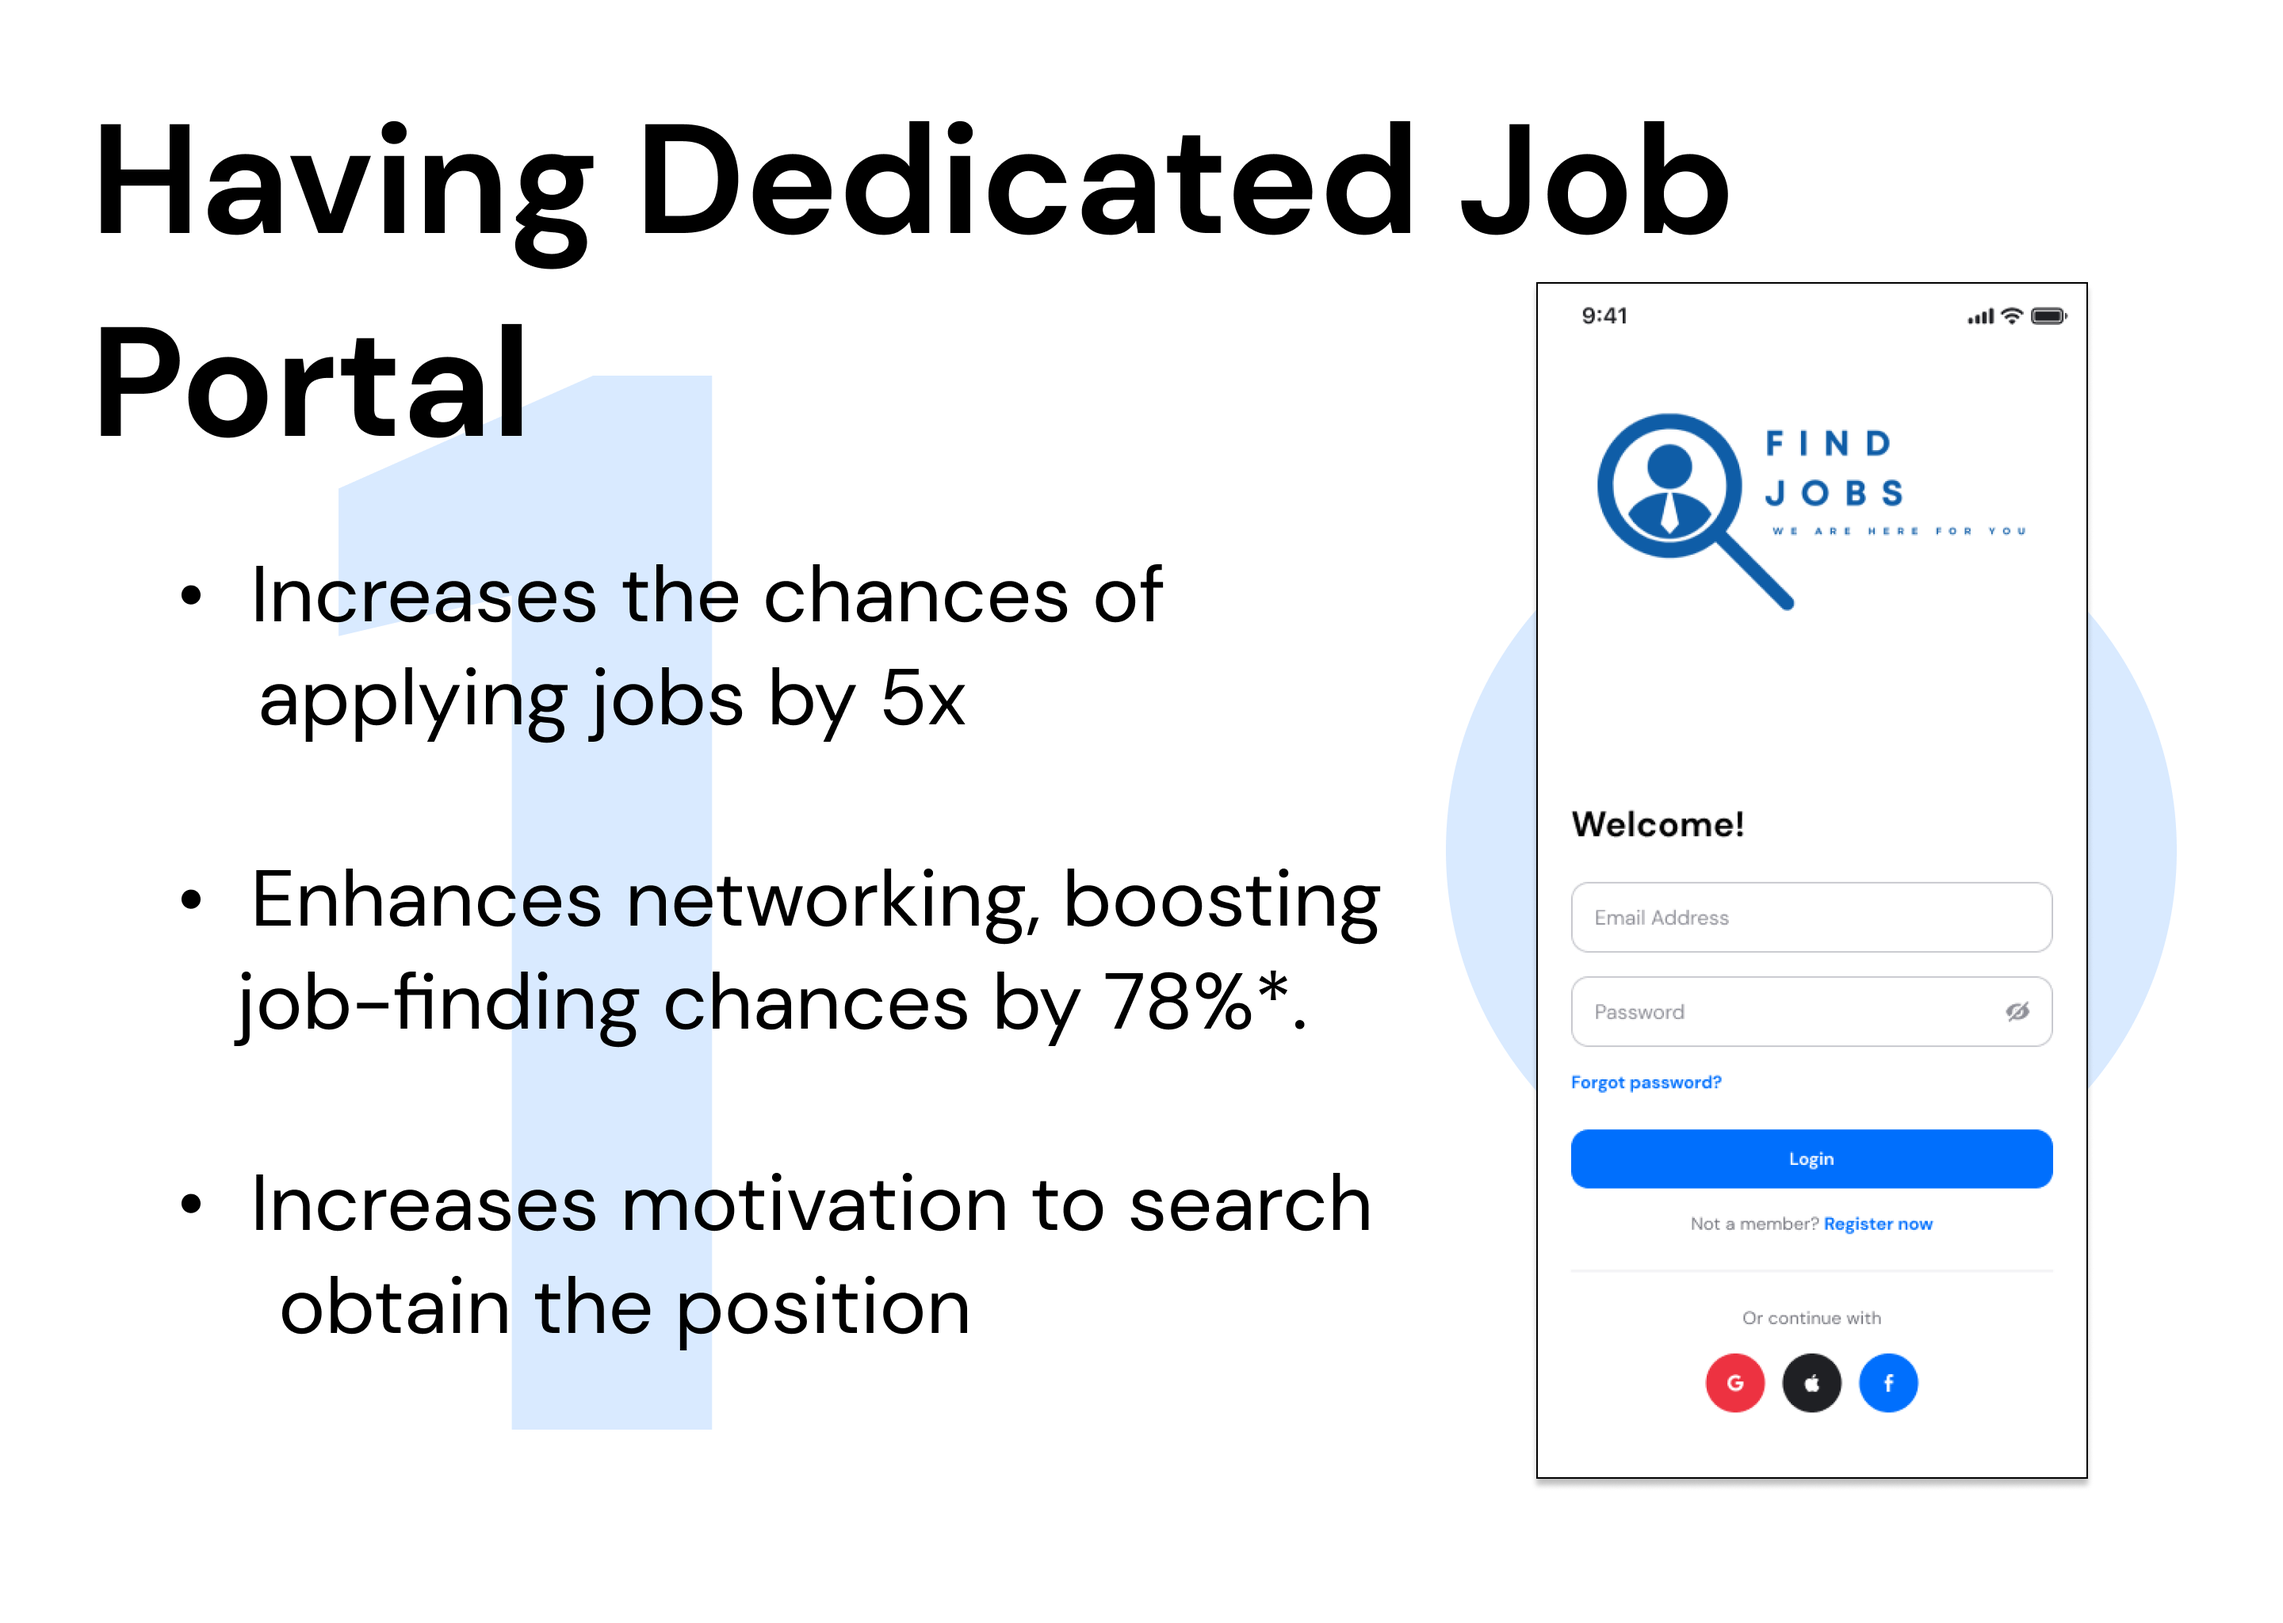
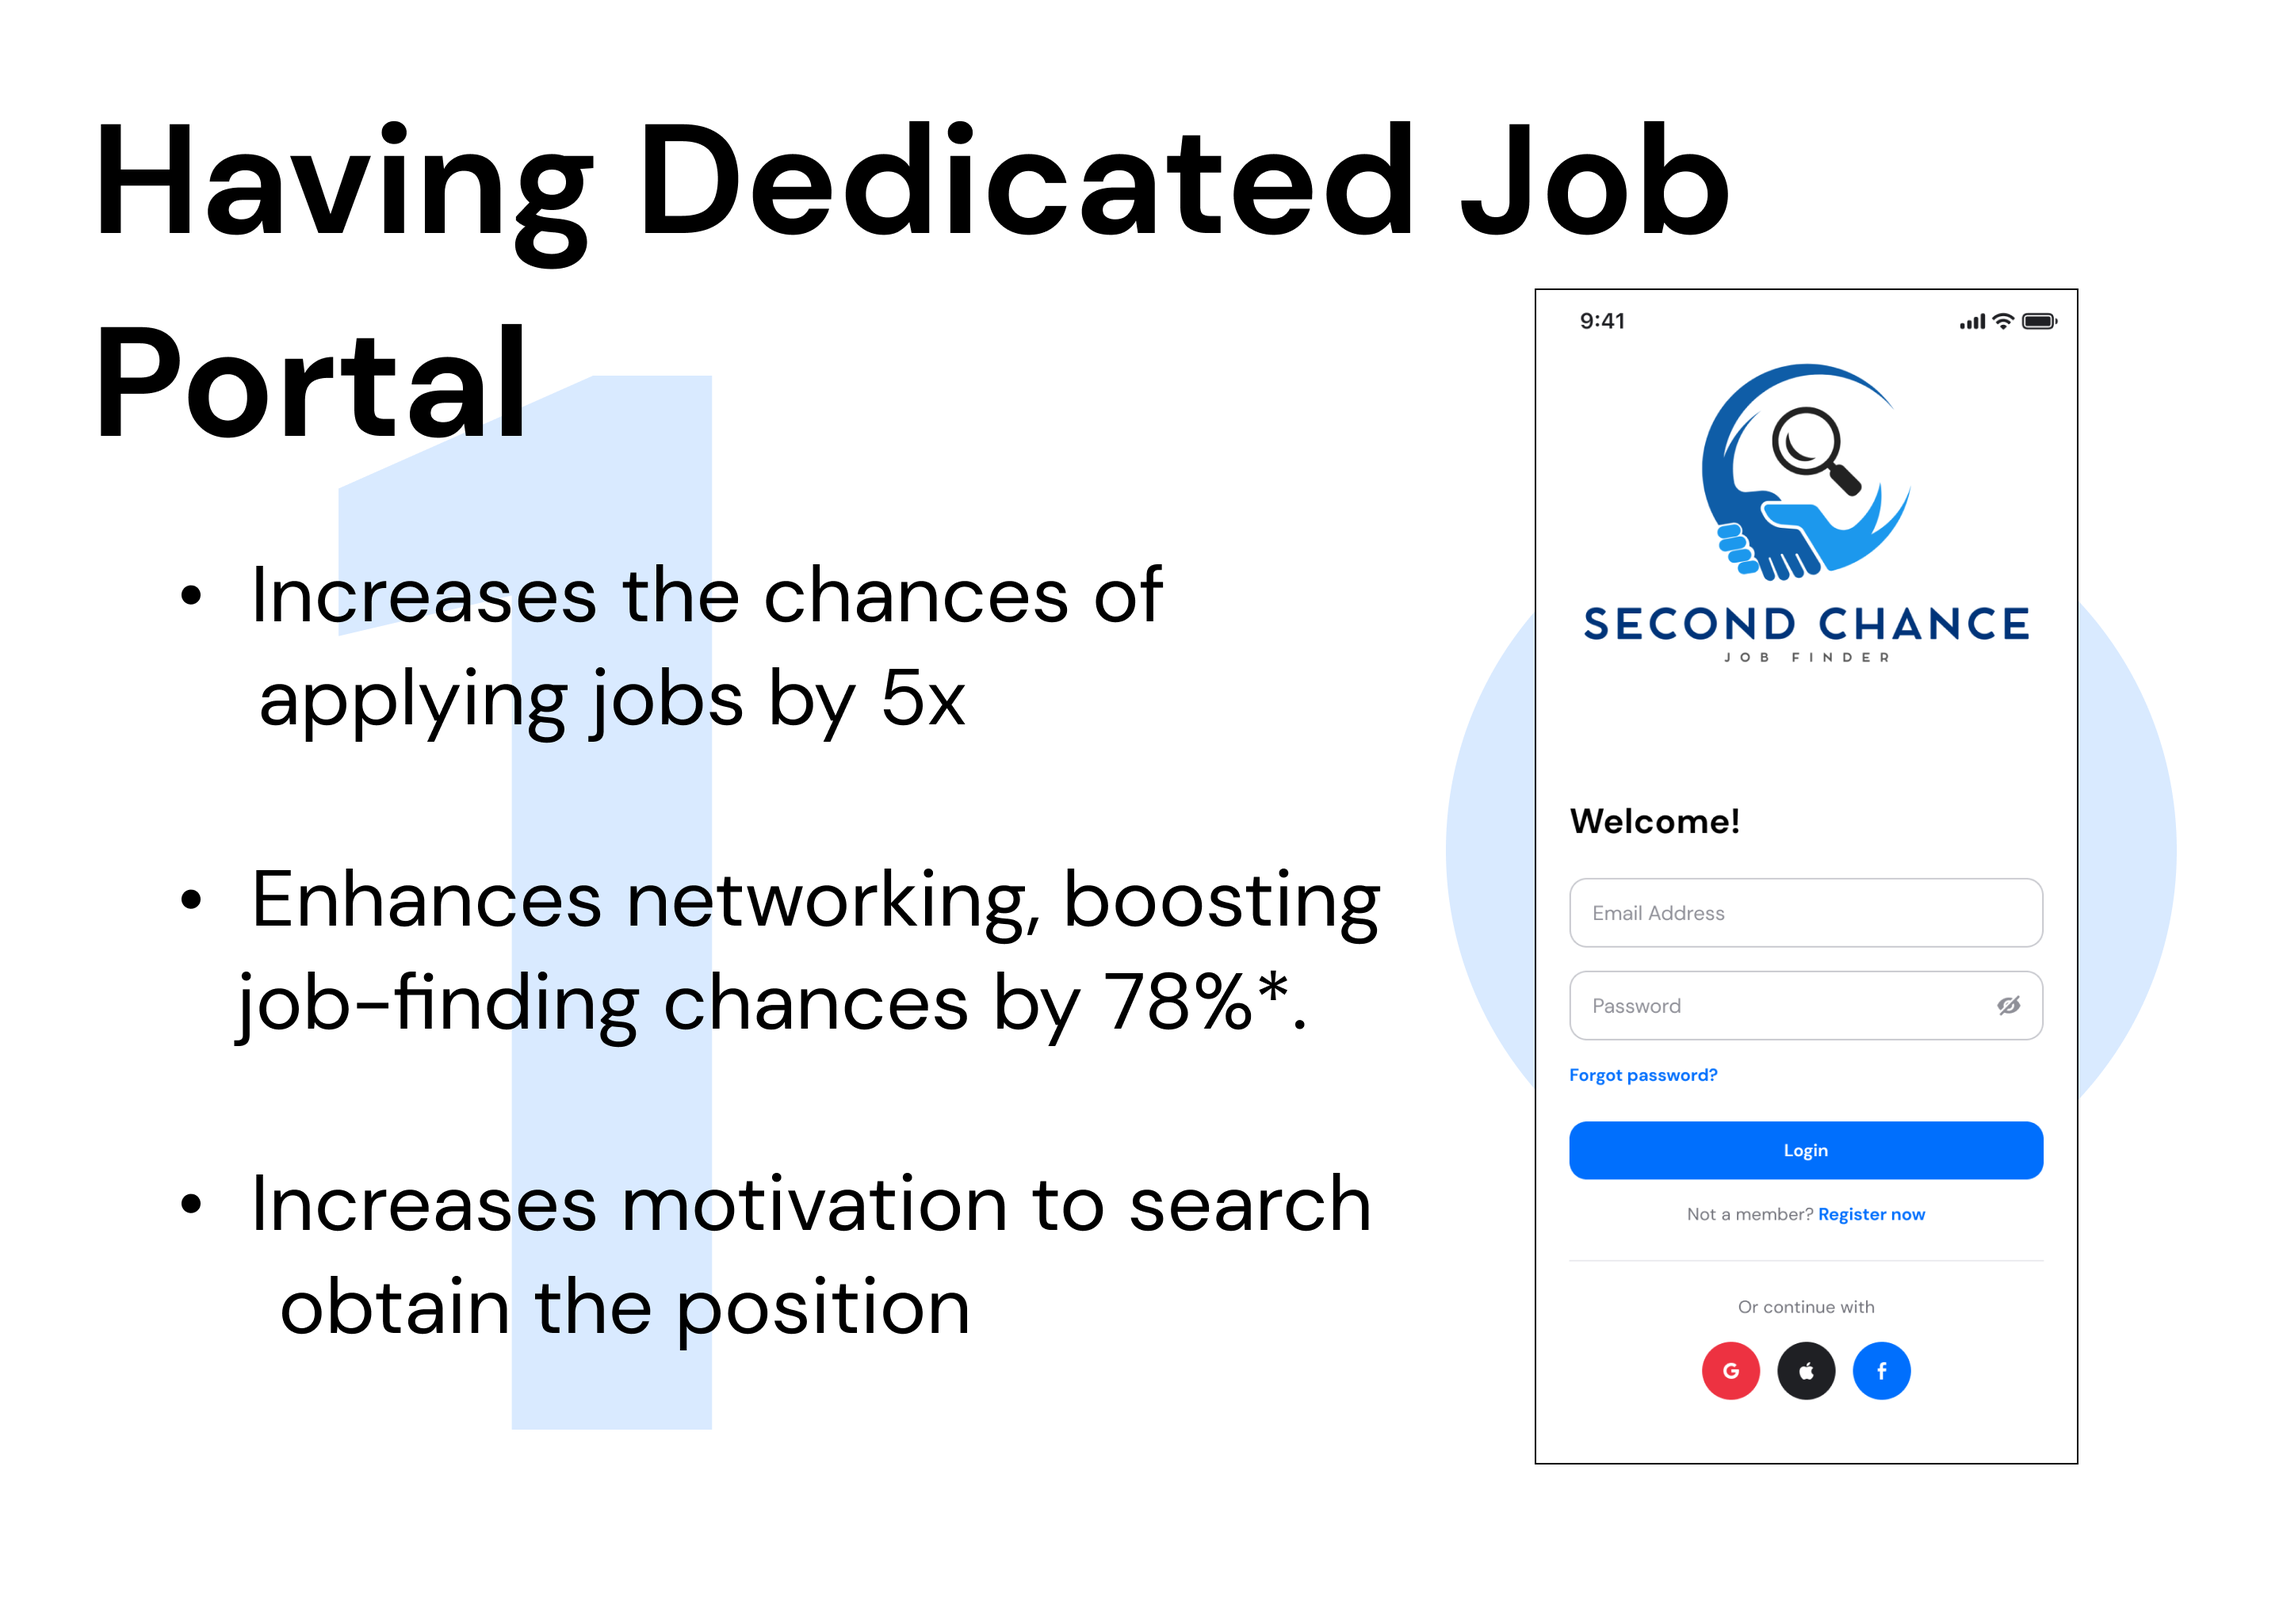
update
major

diff --git a/index.html b/index.html
@@ -129,12 +129,12 @@
                <label for="featured-article" class="featured-label">Project</label>
             
                <a href="FindJobs.html" target="_blank" class="work__link">
-                  <img src="assets/img/projectjob.png" alt="image" class="work__img">
+                  <img src="assets/img/second logo.png" alt="image" class="work__img">
                   <i class="ri-arrow-right-circle-line work__icon"></i>
                </a>
             
-               <h2 class="work__title">Find Jobs - We are Here for You</h2>
-               <span class="work__subtitle">Find Jobs - We are Here for You is a mobile-based application targeting formerly incarcerated
+               <h2 class="work__title">Second Chance - Job Finder</h2>
+               <span class="work__subtitle">Second Chance - Job Finder is a mobile-based application targeting formerly incarcerated
                individuals to find jobs,
                chat with employers, and engage with the community.</span>
             </article>

diff --git a/work.html b/work.html
@@ -86,12 +86,12 @@
                <label for="featured-article" class="featured-label">Project</label>
             
                <a href="FindJobs.html" target="_blank" class="work__link">
-                  <img src="assets/img/projectjob.png" alt="image" class="work__img">
+                  <img src="assets/img/second logo.png" alt="image" class="work__img">
                   <i class="ri-arrow-right-circle-line work__icon"></i>
                </a>
             
-               <h2 class="work__title">Find Jobs - We are Here for You</h2>
-               <span class="work__subtitle">Find Jobs - We are Here for You is a mobile-based application targeting formerly
+               <h2 class="work__title">Second Chance - Job Finder</h2>
+               <span class="work__subtitle">Second Chance - Job Finder is a mobile-based application targeting formerly
                   incarcerated
                   individuals to find jobs,
                   chat with employers, and engage with the community.</span>

diff --git a/FindJobs.html b/FindJobs.html
@@ -85,7 +85,7 @@
                     <h1 class="blog__title">Description</h1>
 
                     <p class="blog__description">
-                        <strong>Find Jobs - We are Here for You</strong> is a mobile-based application targeting formerly incarcerated individuals to find jobs,
+                        <strong>Second Chance - Job Finder</strong> is a mobile-based application targeting formerly incarcerated individuals to find jobs,
                         chat with employers, and engage with the community.
                     </p>
 
